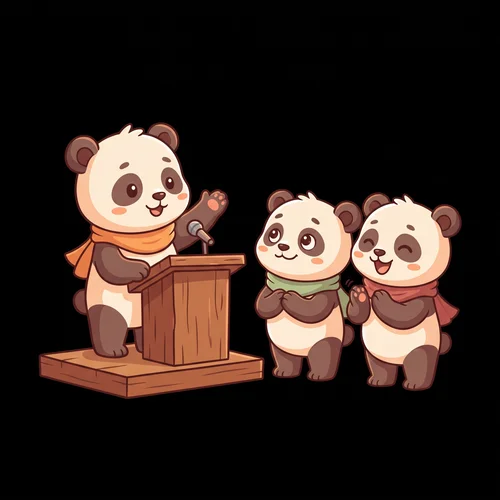
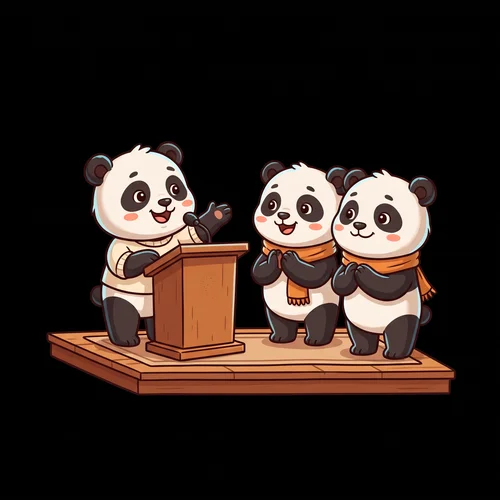
Design: fix garland seam on section pages, move mascots top-right (visible on mobile too), even out panda sizes
Garland seam: .wall got a real background gradient earlier (matching
body::before, to fix the black-box mascot bug) but painted it relative
to .wall own box, which starts partway down the page -- so it restarted
the gradient from --wall-1 right under the garland instead of
continuing the page actual gradient, showing as a visible seam. Fixed
with background-attachment:fixed, which anchors it to the viewport
like body::before already is, so the two align at any scroll position.

Mascot placement: moved from bottom-right to top-right of .wall. Two
reasons: that is guaranteed empty space next to the section title on
any section and any screen width, and it is what was making the
mascot invisible on mobile -- the stacked full-width card grid was
simply covering the old bottom-right spot there. Added a mobile-size
override in the existing 860px breakpoint alongside it.

Pandas: regenerated with explicit same-size wording after the first
version came back with mismatched proportions between the three.
Verified black background on the new render before swapping it in.

Changed region(s): [[0.06, 0.24, 0.93, 0.81]]

diff --git a/apps/site/style.css b/apps/site/style.css
@@ -233,17 +233,27 @@ button{font:inherit}
    context boundary away. Repeating the same gradient as a real background
    here (matching body::before) gives the mascot something local and
    visually seamless to screen-blend against, instead of nothing. */
-.wall{position:relative;z-index:1;padding:1.25rem clamp(1rem,3vw,2.5rem) 5rem;background:linear-gradient(160deg,var(--wall-1) 0%,var(--wall-2) 100%)}
+/* background-attachment:fixed anchors this gradient to the viewport, same
+   as body::before's -- .wall starts partway down the page, so a gradient
+   painted relative to *its own* box (the plain "background:" version)
+   restarts from --wall-1 right at the garland instead of continuing the
+   page's actual gradient, showing up as a visible seam right under it. */
+.wall{position:relative;z-index:1;padding:1.25rem clamp(1rem,3vw,2.5rem) 5rem;background:linear-gradient(160deg,var(--wall-1) 0%,var(--wall-2) 100%);background-attachment:fixed}
 /* the section's mascot sits as a corner decoration behind the card grid,
    not as a clickable preview -- z-index:0 plus DOM order (it's the first
    child) keeps it under the cards, which each get their own stacking
    context from --rot's transform. Opacity is intentionally NOT reduced:
    combining opacity with mix-blend-mode forces its own isolated
    compositing group, so the blend would happen against that group's
-   transparent backdrop instead of .wall's background. */
+   transparent backdrop instead of .wall's background.
+   Anchored top-right (not bottom-right): that's empty space right next to
+   the section title on every section, on any screen width, so it stays
+   visible even where the card grid would otherwise cover a bottom corner
+   -- that's what made it invisible on mobile, where the stacked cards run
+   the full width of .wall. */
 .wall-mascot{
-  position:absolute;right:clamp(.5rem,3vw,2rem);bottom:1rem;z-index:0;
-  width:clamp(140px,22vw,280px);height:auto;
+  position:absolute;right:clamp(.5rem,3vw,2rem);top:.25rem;z-index:0;
+  width:clamp(110px,18vw,220px);height:auto;
   mix-blend-mode:screen;pointer-events:none;
 }
 .wall-grid{
@@ -405,6 +415,7 @@ footer.site-footer{position:relative;z-index:1;text-align:left;color:var(--ink-f
   .wall-grid--career::before,.wall-grid--career::after{display:none}
   .wall-grid--career .photo-card{order:var(--order-mobile, 0)}
   .photo-card{width:clamp(150px,42vw,200px)}
+  .wall-mascot{width:clamp(70px,24vw,110px)}
   .hero--split .split{grid-template-columns:1fr;gap:1.75rem}
   .hero-photo{aspect-ratio:4/5}
   .hero-wall-grid{max-width:100%}
